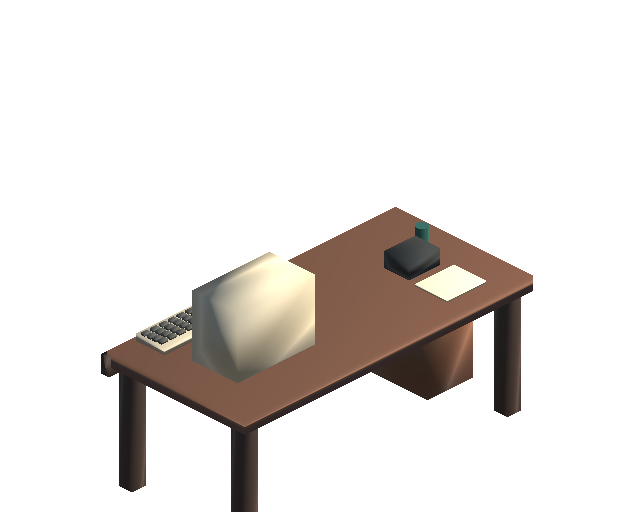
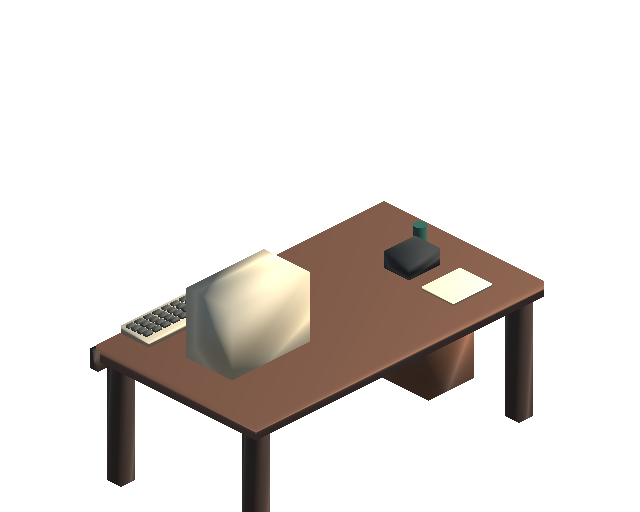
Use reserved desk depth and anatomical knee bend for centred chairs

diff --git a/Assets/FamilyCompany/Runtime/Character3D/Family3DWalkActor.cs b/Assets/FamilyCompany/Runtime/Character3D/Family3DWalkActor.cs
@@ -515,6 +515,8 @@ namespace FamilyCompany.Runtime.Character3D
             footCentre.y = floorWorldY + 0.158f * h;
             Vector3 leftFootTarget = footCentre - right * (0.12f * h);
             Vector3 rightFootTarget = footCentre + right * (0.12f * h);
+            leftFootTarget.y = BentKneeAnkleHeight(leftUpperLeg, leftLowerLeg, leftFoot, leftFootTarget);
+            rightFootTarget.y = BentKneeAnkleHeight(rightUpperLeg, rightLowerLeg, rightFoot, rightFootTarget);
             Vector3 leftKneePole = leftUpperLeg.position - right * (0.12f * h) +
                                    forward * (0.23f * h) + up * (0.01f * h);
             Vector3 rightKneePole = rightUpperLeg.position + right * (0.12f * h) +
@@ -528,6 +530,18 @@ namespace FamilyCompany.Runtime.Character3D
         }
 
         public float LastSeatedTorsoLeanDegrees { get; private set; }
+
+        private static float BentKneeAnkleHeight(Transform thigh, Transform shin, Transform ankle, Vector3 target)
+        {
+            // Short avatars naturally dangle their feet from the unchanged shared chair.
+            // Do not force a floor-height endpoint that straightens the knee through the cushion.
+            float a = Vector3.Distance(thigh.position, shin.position);
+            float b = Vector3.Distance(shin.position, ankle.position);
+            float spanSquared = a * a + b * b - 2f * a * b * Mathf.Cos(110f * Mathf.Deg2Rad);
+            Vector3 horizontal = target - thigh.position; horizontal.y = 0;
+            float vertical = Mathf.Sqrt(Mathf.Max(0, spanSquared - horizontal.sqrMagnitude));
+            return Mathf.Max(target.y, thigh.position.y - vertical);
+        }
 
         private void LeanTorsoForKeyboard(Vector3 leftTarget, Vector3 rightTarget, Vector3 rightAxis,
             float weight, Transform leftUpper, Transform leftLower, Transform leftHand,

diff --git a/Assets/FamilyCompany/Runtime/Character3D/Family3DWorkstation.cs b/Assets/FamilyCompany/Runtime/Character3D/Family3DWorkstation.cs
@@ -388,7 +388,9 @@ namespace FamilyCompany.Runtime.Character3D
             // the real semantic footprint.
             float topY = 0.455f * h;
             float deskWidth = deskFootprintWidthWorld * 0.90f;
-            float deskDepth = deskFootprintDepthWorld * 0.86f;
+            // In the tile-centred set the tabletop uses its full reserved row depth. The
+            // old 14% empty strip unnecessarily lengthened the reach across the chair tile.
+            float deskDepth = deskFootprintDepthWorld * (centerChairOnSeatCell ? 1f : 0.86f);
             Vector2 deskGrid = LocalToGridCoordinates(deskFootprintCenterLocal);
             Vector2 keyboardGrid = LocalToGridCoordinates(keyboardGroundLocal);
             float deskRight = deskGrid.x;
@@ -462,7 +464,7 @@ namespace FamilyCompany.Runtime.Character3D
                 deskRight - deskWidth * 0.5f + keyboardWidth * 0.5f,
                 deskRight + deskWidth * 0.5f - keyboardWidth * 0.5f);
             float keyboardForward =
-                frontForward + keyboardDepth * 0.5f + 0.020f * h;
+                frontForward + keyboardDepth * 0.5f + (centerChairOnSeatCell ? 0.002f : 0.020f) * h;
             float monitorForward = Mathf.Clamp(
                 keyboardForward + deskDepth * 0.43f,
                 deskForward,

diff --git a/Assets/FamilyCompany/Presentation.Unity/OfficeRuntime/OfficeBuildFurnitureVisualLibrary.cs b/Assets/FamilyCompany/Presentation.Unity/OfficeRuntime/OfficeBuildFurnitureVisualLibrary.cs
@@ -168,10 +168,10 @@ namespace FamilyCompany.Presentation.Unity.OfficeRuntime
         {
             switch (facing)
             {
-                case OfficeFurnitureFacing.SouthEast: return new Vector2(449.983f, 206.110f);
-                case OfficeFurnitureFacing.SouthWest: return new Vector2(350.017f, 126.110f);
-                case OfficeFurnitureFacing.NorthWest: return new Vector2(190.017f, 176.093f);
-                default: return new Vector2(289.983f, 256.093f);
+                case OfficeFurnitureFacing.SouthEast: return new Vector2(465.289f, 198.457f);
+                case OfficeFurnitureFacing.SouthWest: return new Vector2(334.712f, 118.457f);
+                case OfficeFurnitureFacing.NorthWest: return new Vector2(174.712f, 183.746f);
+                default: return new Vector2(305.289f, 263.746f);
             }
         }
 

diff --git a/Docs/DECISIONS.md b/Docs/DECISIONS.md
@@ -6,6 +6,9 @@
   `-batchmode -force-d3d11`와 offscreen camera stack만 사용하며 IMGUI 화면 확인으로 보고하지 않는다.
 - 중앙 고정 후 아빠의 손 도달성이 부족해, 의자/골반/다리/뼈 길이를 유지하고 spine만 필요한 만큼
   최대 35° 기울이는 fitting을 시험한다. 네 방향 손 endpoint·무릎·쿠션 관통 독립 측정 전 승인 아님.
+- 책상은 기존 2칸 안에서 깊이 86% 대신 100%를 사용하고 키보드를 앞줄 끝 안쪽에 놓는다.
+  녹색 점유 3칸을 늘리거나 의자를 이동하지 않는다. 짧은 다리는 실제 허벅지/정강이 길이로
+  110° 무릎에 필요한 발목 높이를 계산하되 기존 높이보다 내리지 않아 의자 바닥판을 피한다.
 
 - 사용자 지시에 따라 의자 기둥/바닥판의 지면 중심을 semantic seat.Cell 중앙에 고정한다.
   높이가 포함된 sprite operator socket을 바닥에 투영하거나 키보드에서 일정 거리만큼 의자를
